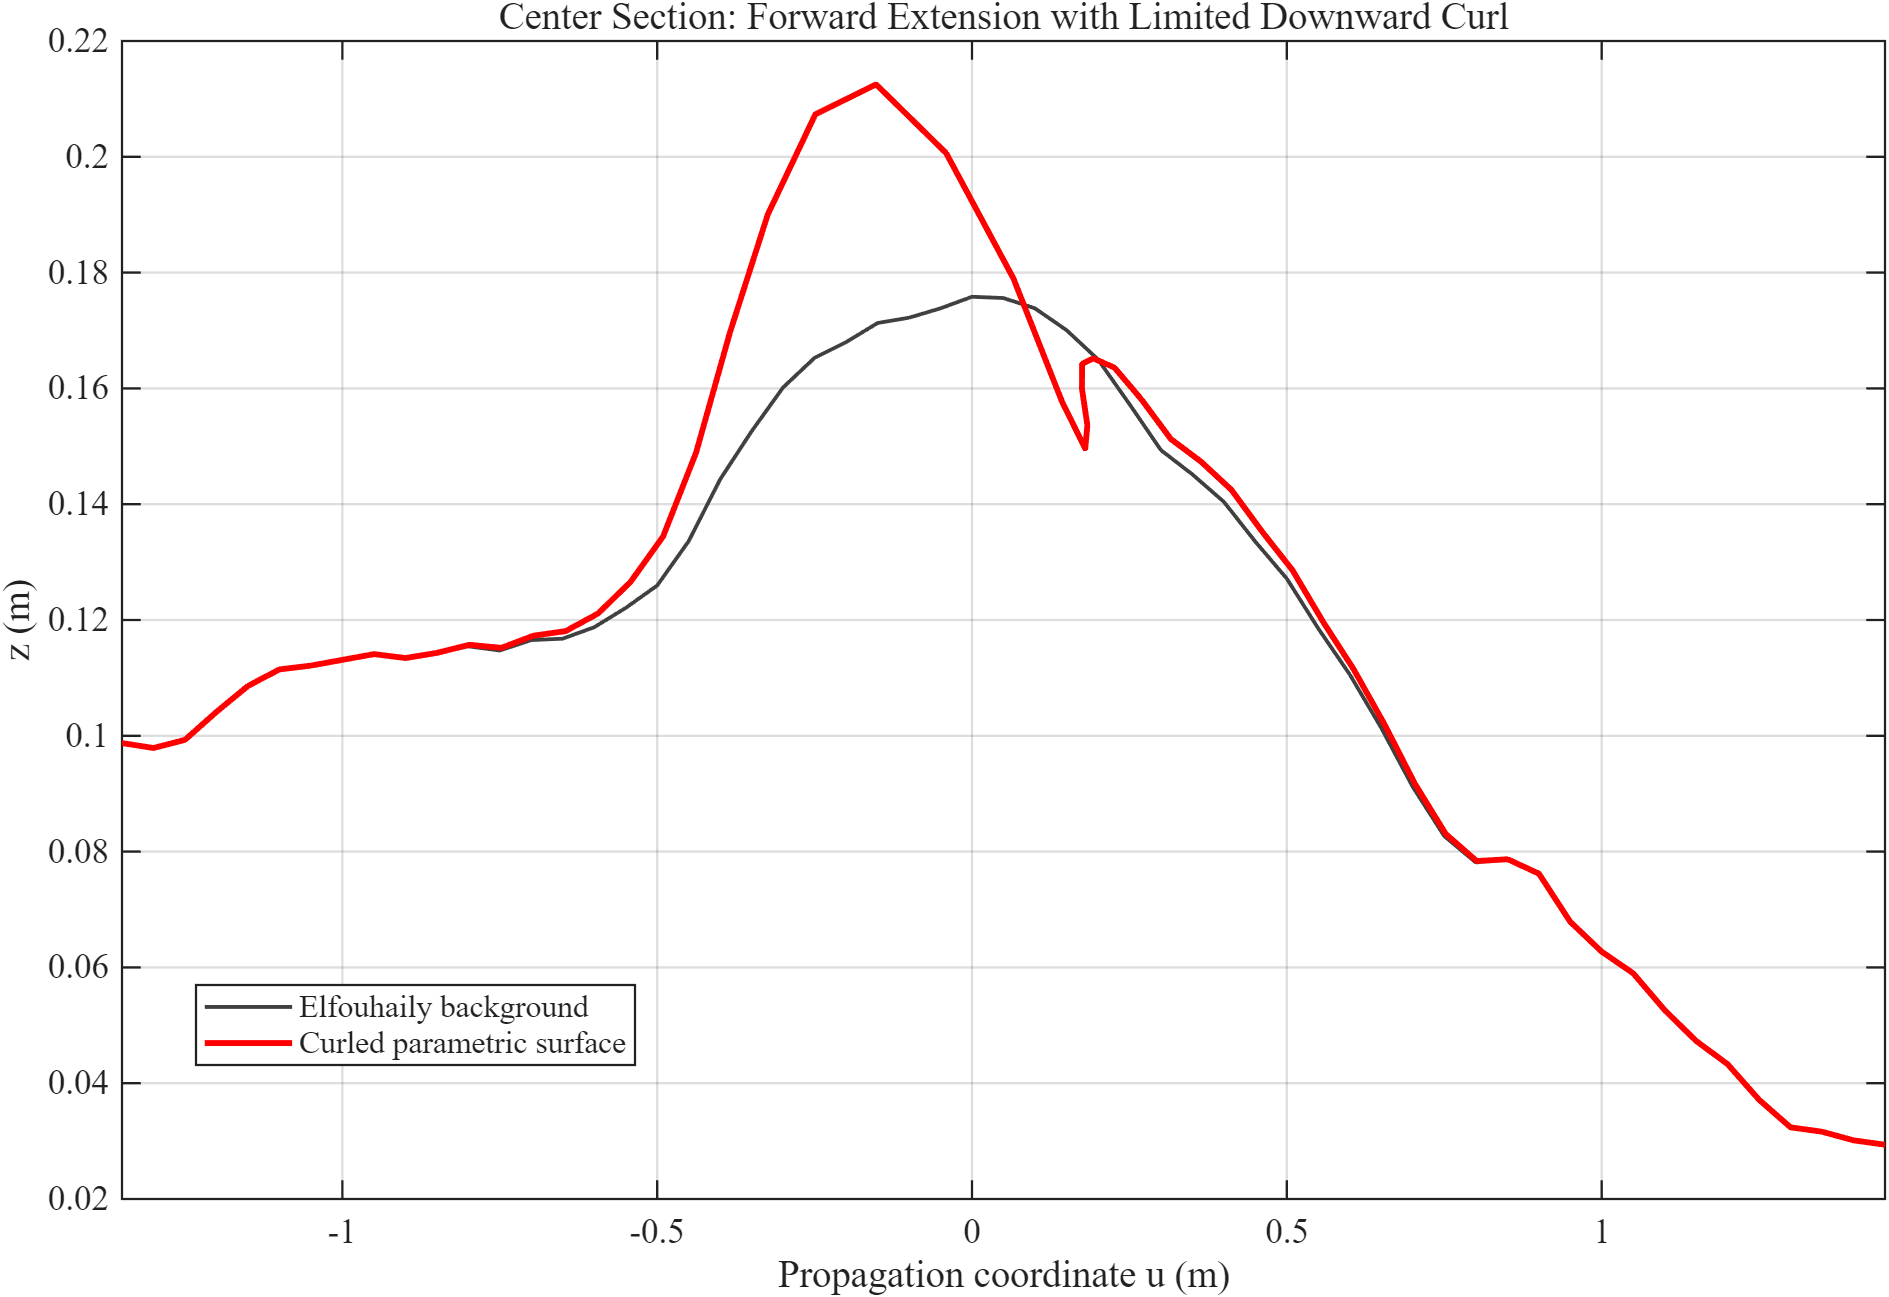
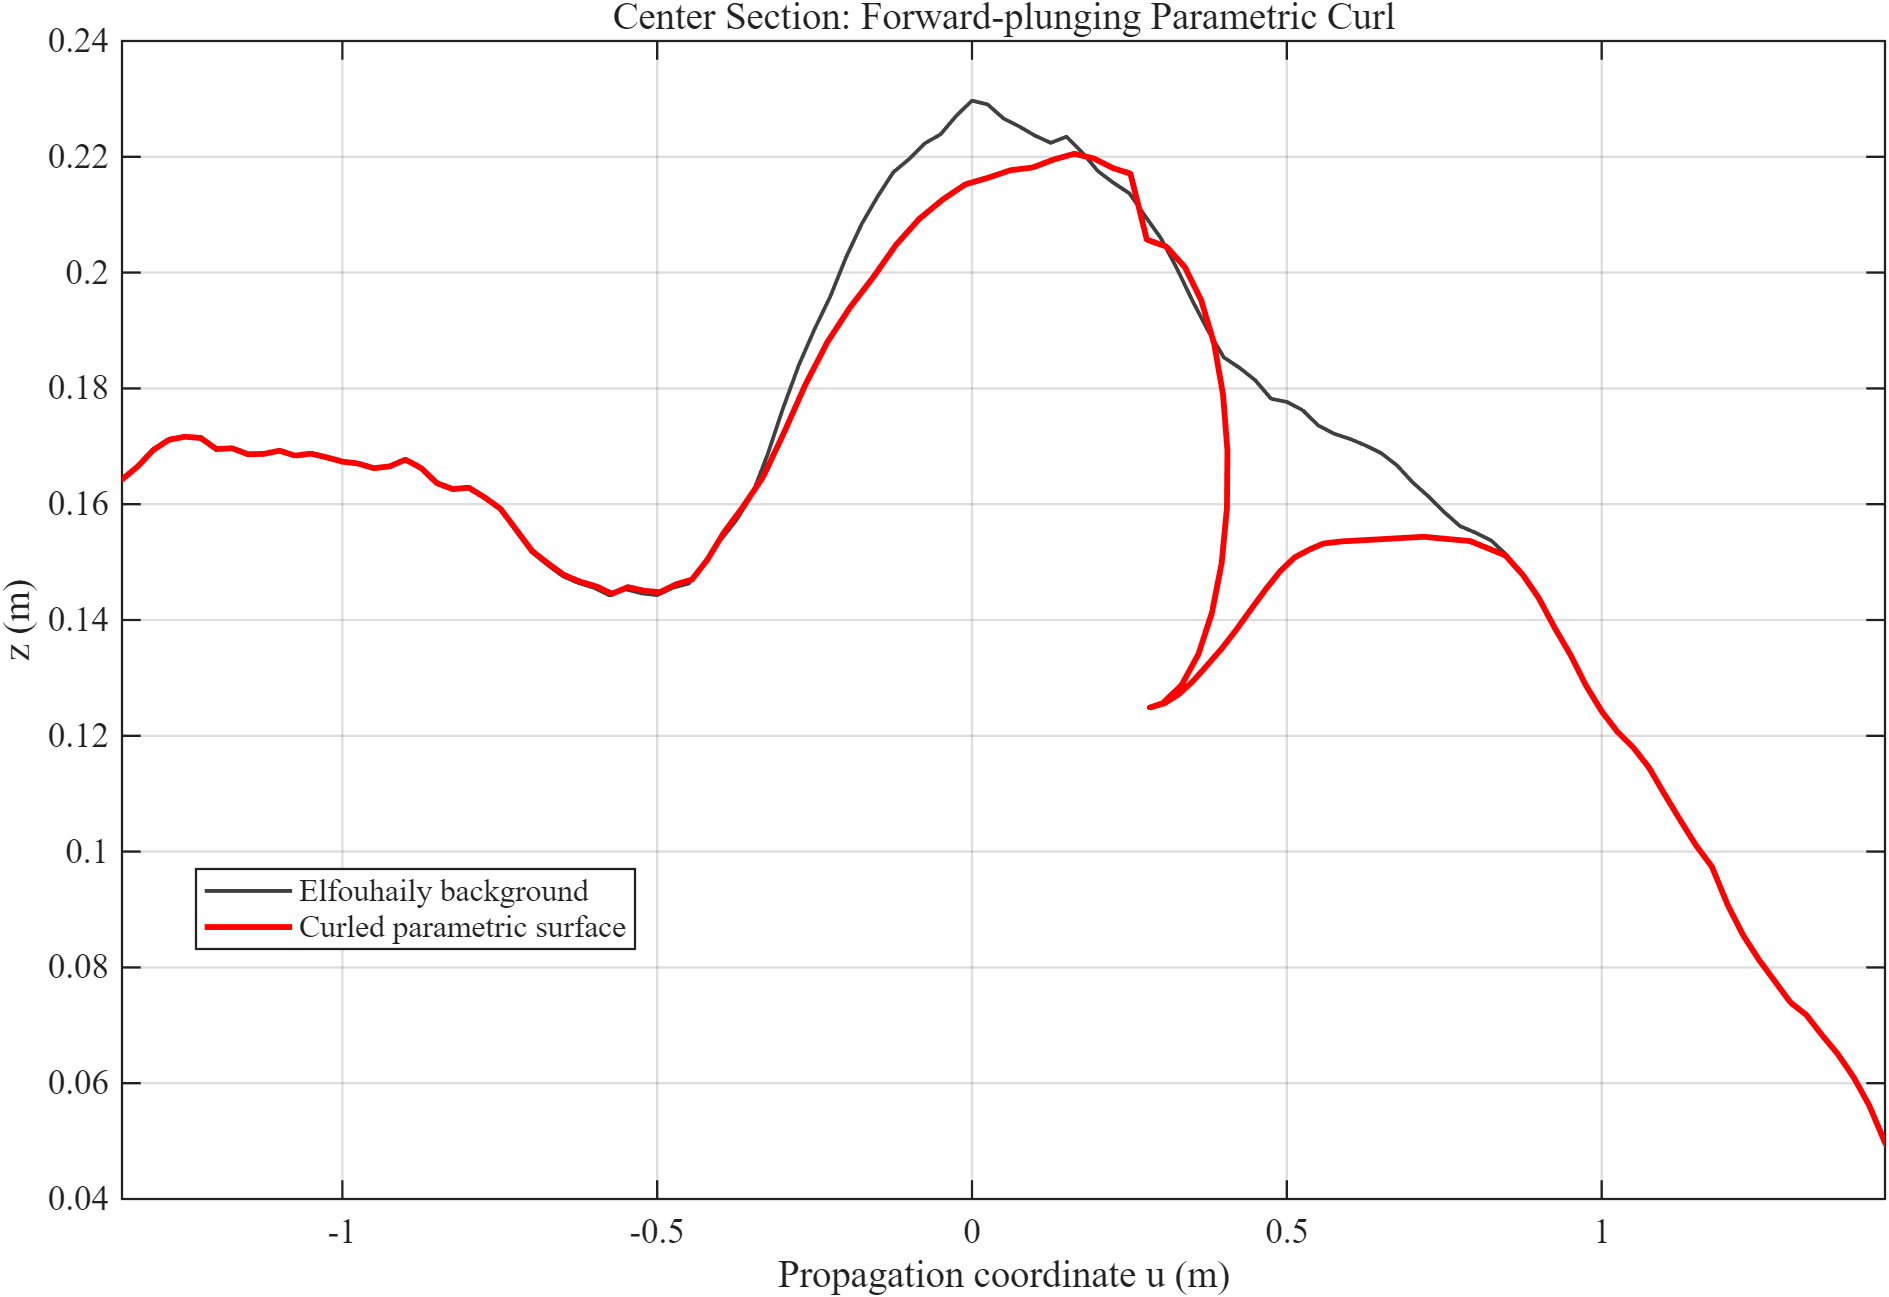
Model a forward-plunging local sea curl

diff --git a/Code/20260825_Elfouhaily_Ideal_Curl/Curl/generate_elfouhaily_ideal_curl_surface.m b/Code/20260825_Elfouhaily_Ideal_Curl/Curl/generate_elfouhaily_ideal_curl_surface.m
@@ -33,8 +33,6 @@ zCrest = interp1(ridge.v,ridge.z,vQuery,'pchip');
 ur = u-uCenter;
 
 localWaveHeight = estimate_local_wave_height(u,v,Z0,detection,cfg,dx,dy);
-pivotDepth = min(max(cfg.curl.pivotDepthFraction*localWaveHeight, ...
-    cfg.curl.minimumPivotDepth),cfg.curl.maximumPivotDepth);
 
 a = cfg.curl.crestHalfLength;
 b = cfg.curl.coreHalfWidth;
@@ -54,36 +52,20 @@ evolutionShape = exp(-0.5*(ur/sigmaEvolution).^2);
 crestLift = cfg.curl.crestLiftFraction*localWaveHeight;
 evolutionLift = cfg.curl.evolutionLiftFraction*localWaveHeight;
 forwardLean = cfg.curl.forwardLeanFraction*localWaveHeight;
-lipAdvance = cfg.curl.lipAdvanceFraction*localWaveHeight;
-lipShape = exp(-0.5*((ur-cfg.curl.shoulderOffset)/ ...
-    cfg.curl.lipAdvanceWidth).^2);
 
 zPre = Z0 + (crestLift*crestShape + ...
     evolutionLift*evolutionShape).*Wt;
-uPre = u + forwardLean*evolutionShape.*Wt + ...
-    lipAdvance*lipShape.*Wc;
+crestwiseWeight = compact_cosine(v/a);
+uPre = u + forwardLean*evolutionShape.*Wt;
 
-% Retain the Ideal_Curl_Wave_Echo same-angle rotation, but use a shallow,
-% locally scaled pivot and start the rotation on the approaching shoulder.
-uPivot = uCenter + cfg.curl.shoulderOffset + ...
-    cfg.curl.forwardPivotOffset + cfg.curl.pivotAdvanceFraction* ...
-    lipAdvance.*compact_cosine(v/a);
-zPivot = zCrest-pivotDepth;
-theta = cfg.curl.thetaMax*exp(-0.5*((ur- ...
-    cfg.curl.shoulderOffset)/cfg.curl.rotationWidth).^2).* ...
-    compact_cosine(v/a);
-
-dU = uPre-uPivot;
-dZ = zPre-zPivot;
-uRot = uPivot + dU.*cos(theta) + dZ.*sin(theta);
-zRot = zPivot - dU.*sin(theta) + dZ.*cos(theta);
-lipDrop = cfg.curl.lipDropFraction*localWaveHeight;
-dropCenter = cfg.curl.shoulderOffset+cfg.curl.lipDropOffset;
-dropShape = exp(-0.5*((ur-dropCenter)/cfg.curl.lipDropWidth).^2);
-zRot = zRot-lipDrop*dropShape.*compact_cosine(v/a);
-
-uFinal = uPre + Wt.*(uRot-uPre);
-Z = zPre + Wt.*(zRot-zPre);
+% A plunging breaker is multi-valued in z(u), so its core must be built as
+% a material-parametric curve. The upper branch advances, a half-ellipse
+% turns through the nose, and the lower branch continues forward at depth.
+[uTemplate,zTemplate,profileMask] = plunging_profile(ur,uCenter, ...
+    zCrest,zPre,localWaveHeight,cfg);
+profileWeight = profileMask.*crestwiseWeight;
+uFinal = uPre + profileWeight.*(uTemplate-uPre);
+Z = zPre + profileWeight.*(zTemplate-zPre);
 X = detection.x + cos(psi).*uFinal - sin(psi).*v;
 Y = detection.y + sin(psi).*uFinal + cos(psi).*v;
 
@@ -110,7 +92,7 @@ surfaceData.localURidge = uCenter;
 surfaceData.localURelative = ur;
 surfaceData.localUFinal = uFinal;
 surfaceData.zPre = zPre;
-surfaceData.thetaCurl = theta;
+surfaceData.thetaCurl = zeros(size(Z));
 surfaceData.coreWeight = Wc;
 surfaceData.transitionWeight = Wt;
 surfaceData.curlMask = coreMask;
@@ -124,13 +106,13 @@ surfaceData.vertices = [X(:),Y(:),Z(:)];
 surfaceData.detection = detection;
 surfaceData.ridge = ridge;
 surfaceData.localWaveHeight = localWaveHeight;
-surfaceData.pivotDepth = pivotDepth;
 surfaceData.cfg = cfg;
 
 horizontalDisplacement = hypot(X-X0,Y-Y0);
 forwardDisplacement = uFinal-u;
 downwardDisplacement = Z0-Z;
 surfaceData.metrics.maxElevationChange = max(abs(Z-Z0),[],'all');
+surfaceData.metrics.maxUpwardDisplacement = max(Z-Z0,[],'all');
 surfaceData.metrics.maxHorizontalDisplacement = ...
     max(horizontalDisplacement,[],'all');
 surfaceData.metrics.maxForwardDisplacement = ...
@@ -144,11 +126,64 @@ surfaceData.metrics.transitionPointCount = nnz(transitionMask);
 surfaceData.metrics.minimumPropagationJacobian = ...
     min(propagationJacobian(coreMask));
 surfaceData.metrics.overturningPointCount = nnz(overturningMask);
+surfaceData.metrics.forwardOverturningFraction = nnz( ...
+    overturningMask & ur > 0)/max(nnz(overturningMask),1);
+downwardCore = downwardDisplacement;
+downwardCore(~coreMask) = -Inf;
+[~,lowestIndex] = max(downwardCore,[],'all','linear');
+surfaceData.metrics.lowestLipRelativeU = ur(lowestIndex);
 outside = Wt == 0;
 surfaceData.metrics.maxOutsideDisplacement = max([ ...
     abs(X(outside)-X0(outside)); abs(Y(outside)-Y0(outside)); ...
     abs(Z(outside)-Z0(outside))]);
 surfaceData.metrics.crestwiseRidgeStd = std(ridge.u,0,'all');
+end
+
+function [uTarget,zTarget,mask] = plunging_profile(q,uC,zC,zBackground,H,cfg)
+qRear = cfg.curl.profileRear;
+qTop = cfg.curl.noseStart;
+qBottom = cfg.curl.noseEnd;
+qEnd = cfg.curl.lowerEnd;
+
+uTarget = uC+q;
+zTarget = zBackground;
+mask = zeros(size(q));
+
+upper = q >= qRear & q < qTop;
+tUpper = smoothstep((q(upper)-qRear)/(qTop-qRear));
+advance = cfg.curl.upperAdvanceFraction*H;
+zLipTop = zC-cfg.curl.lipTopDropFraction*H;
+uTarget(upper) = uC(upper)+q(upper)+advance.*tUpper;
+zTarget(upper) = zTarget(upper)+(zLipTop(upper)-zTarget(upper)).* ...
+    cfg.curl.plateauFraction.*tUpper;
+mask(upper) = smoothstep((q(upper)-qRear)/(0.18*(qTop-qRear)));
+
+uNoseBase = uC+qTop+advance;
+zTop = zLipTop;
+zBottom = zC-cfg.curl.lowerBranchDropFraction*H;
+nose = q >= qTop & q <= qBottom;
+tNose = (q(nose)-qTop)/(qBottom-qTop);
+uTarget(nose) = uNoseBase(nose)+ ...
+    cfg.curl.noseRadiusFraction*H.*sin(pi*tNose);
+zTarget(nose) = zBottom(nose)+0.5.*(zTop(nose)-zBottom(nose)).* ...
+    (1+cos(pi*tNose));
+mask(nose) = 1;
+
+lower = q > qBottom & q <= qEnd;
+tLower = (q(lower)-qBottom)/(qEnd-qBottom);
+uTarget(lower) = uNoseBase(lower)+ ...
+    cfg.curl.lowerAdvanceFactor*(q(lower)-qBottom);
+zBackgroundJoin = zBackground(lower);
+blendUp = smoothstep(tLower);
+zTarget(lower) = (1-blendUp).*zBottom(lower)+ ...
+    blendUp.*zBackgroundJoin;
+mask(lower) = 1-smoothstep(max((tLower-0.72)/0.28,0));
+
+end
+
+function y = smoothstep(x)
+x = min(max(x,0),1);
+y = x.^2.*(3-2*x);
 end
 
 function detection = detect_breaking_eligible_crest(X,Y,Z,cfg,dx,dy)

diff --git a/Code/20260825_Elfouhaily_Ideal_Curl/Curl/run_elfouhaily_ideal_curl_demo.m b/Code/20260825_Elfouhaily_Ideal_Curl/Curl/run_elfouhaily_ideal_curl_demo.m
@@ -7,8 +7,15 @@ assert(surfaceData.metrics.overturningPointCount > 0, ...
     'The local patch is deformed but does not geometrically overturn.');
 assert(surfaceData.metrics.maxOutsideDisplacement < 1e-12, ...
     'The deformation leaks outside the compact transition support.');
-assert(surfaceData.metrics.downwardToLocalHeight < 0.55, ...
+assert(surfaceData.metrics.downwardToLocalHeight < 0.90, ...
     'The downward displacement is too large for the local wave height.');
+assert(surfaceData.metrics.maxUpwardDisplacement < ...
+    0.10*surfaceData.localWaveHeight, ...
+    'The curl incorrectly raises the crest instead of extending forward.');
+assert(surfaceData.metrics.forwardOverturningFraction > 0.80, ...
+    'The overturned material is not concentrated on the forward side.');
+assert(surfaceData.metrics.lowestLipRelativeU > 0, ...
+    'The lowest part of the lip is not in front of the detected crest.');
 assert(surfaceData.metrics.crestwiseRidgeStd > 0, ...
     'The detected crest ridge has collapsed to a straight extrusion.');
 
@@ -30,13 +37,17 @@ fprintf('  selected crest            : (%.3f, %.3f, %.3f) m\n', ...
     surfaceData.detection.z);
 fprintf('  estimated local wave H    : %.4f m\n', ...
     surfaceData.localWaveHeight);
-fprintf('  adaptive pivot depth      : %.4f m\n', ...
-    surfaceData.pivotDepth);
 fprintf('  maximum forward movement  : %.4f m\n', ...
     surfaceData.metrics.maxForwardDisplacement);
 fprintf('  maximum downward movement : %.4f m (%.3f Hlocal)\n', ...
     surfaceData.metrics.maxDownwardDisplacement, ...
     surfaceData.metrics.downwardToLocalHeight);
+fprintf('  maximum upward movement   : %.4f m\n', ...
+    surfaceData.metrics.maxUpwardDisplacement);
+fprintf('  forward overturn fraction : %.3f\n', ...
+    surfaceData.metrics.forwardOverturningFraction);
+fprintf('  lowest lip relative u     : %.4f m\n', ...
+    surfaceData.metrics.lowestLipRelativeU);
 fprintf('  minimum du_final/du       : %.4f\n', ...
     surfaceData.metrics.minimumPropagationJacobian);
 fprintf('  overturning points        : %d\n', ...
@@ -111,28 +122,35 @@ xlim([-1.35 1.45]); grid on;
 xlabel('Propagation coordinate u (m)'); ylabel('z (m)');
 legend('Elfouhaily background','Curled parametric surface', ...
     'Location','best');
-title('Center Section: Forward Extension with Limited Downward Curl');
+title('Center Section: Forward-plunging Parametric Curl');
 
-% Figure 5: local 3-D geometry with core and overturned vertices marked.
+% Figure 5: crop to the curl core and color by material coordinate. This
+% side-oblique view exposes the upper lip, rounded nose, and lower branch.
 figCloseup = new_figure(cfg.output.figureVisible,[160 160 1100 760]);
 surf(surfaceData.X,surfaceData.Y,surfaceData.Z, ...
-    surfaceData.Z,'EdgeColor',[0.22 0.22 0.22], ...
-    'EdgeAlpha',0.16); hold on;
-plot3(surfaceData.X(surfaceData.overturningMask), ...
-    surfaceData.Y(surfaceData.overturningMask), ...
-    surfaceData.Z(surfaceData.overturningMask),'.', ...
-    'Color',[0.02 0.02 0.02],'MarkerSize',12);
-patchMask = surfaceData.transitionWeight > 0.02;
-patchX = surfaceData.X(patchMask);
-patchY = surfaceData.Y(patchMask);
-patchZ = surfaceData.Z(patchMask);
-xlim([min(patchX)-0.30,max(patchX)+0.30]);
-ylim([min(patchY)-0.30,max(patchY)+0.30]);
-zlim([min(patchZ)-0.05,max(patchZ)+0.05]);
-axis vis3d; view(-20,18); grid on;
+    surfaceData.localURelative,'EdgeColor',[0.18 0.18 0.18], ...
+    'EdgeAlpha',0.12);
+psi = deg2rad(cfg.detection.propagationDirectionDeg);
+uAxis = [-1.10 1.20];
+vAxis = [-0.85 0.85];
+cornersU = [uAxis(1) uAxis(2) uAxis(2) uAxis(1)];
+cornersV = [vAxis(1) vAxis(1) vAxis(2) vAxis(2)];
+cornersX = surfaceData.detection.x+cos(psi).*cornersU- ...
+    sin(psi).*cornersV;
+cornersY = surfaceData.detection.y+sin(psi).*cornersU+ ...
+    cos(psi).*cornersV;
+xlim([min(cornersX) max(cornersX)]);
+ylim([min(cornersY) max(cornersY)]);
+localCrop = abs(surfaceData.localU) <= 1.2 & ...
+    abs(surfaceData.localV) <= 0.85;
+zlim([min(surfaceData.Z(localCrop))-0.02 ...
+    max(surfaceData.Z(localCrop))+0.02]);
+axis vis3d; pbaspect([1.8 1.2 1]); view(-10,12); grid on;
 xlabel('x (m)'); ylabel('y (m)'); zlabel('z (m)');
-title('Local Parametric Curl; Black Points Mark J_u < 0');
-colormap(figCloseup,turbo); colorbar;
+title('Side View of the Local Forward-plunging Curl');
+colormap(figCloseup,parula); cb = colorbar;
+cb.Label.String = 'material coordinate u-u_c (m)';
+clim([-0.8 0.9]);
 
 exportgraphics(figConditions,fullfile(cfg.output.outputDirectory, ...
     '01_breaking_location_conditions.png'),'Resolution',200);
@@ -145,8 +163,10 @@ exportgraphics(figSection,fullfile(cfg.output.outputDirectory, ...
 exportgraphics(figCloseup,fullfile(cfg.output.outputDirectory, ...
     '05_local_curl_closeup.png'),'Resolution',220);
 
-save(fullfile(cfg.output.outputDirectory,'elfouhaily_local_curl.mat'), ...
-    'surfaceData','-v7.3');
+if cfg.output.saveMatFile
+    save(fullfile(cfg.output.outputDirectory,'elfouhaily_local_curl.mat'), ...
+        'surfaceData','-v7.3');
+end
 
 function condition_panel(X,Y,mask,surfaceData,panelTitle)
 nexttile;

diff --git a/Code/20260825_Elfouhaily_Ideal_Curl/Curl/default_elfouhaily_ideal_curl_config.m b/Code/20260825_Elfouhaily_Ideal_Curl/Curl/default_elfouhaily_ideal_curl_config.m
@@ -5,7 +5,7 @@ cfg.randomSeed = 20260825;
 
 cfg.domain.Lx = 32.0;
 cfg.domain.Ly = 32.0;
-cfg.domain.dx = 0.05;
+cfg.domain.dx = 0.025;
 cfg.domain.dy = 0.05;
 
 cfg.sea.U10 = 5.0;
@@ -34,33 +34,30 @@ cfg.curl.ridgeSearchHalfWidth = 0.55;
 cfg.curl.ridgeSmoothSamples = 9;
 cfg.curl.coreHalfWidth = 0.42;
 cfg.curl.transitionWidth = 0.58;
-cfg.curl.shoulderOffset = -0.14;
-cfg.curl.forwardPivotOffset = 0.03;
-cfg.curl.pivotAdvanceFraction = 0.85;
-cfg.curl.rotationWidth = 0.16;
-cfg.curl.thetaMax = 0.25;
+cfg.curl.profileRear = -0.46;
+cfg.curl.noseStart = 0.10;
+cfg.curl.noseEnd = 0.42;
+cfg.curl.lowerEnd = 0.86;
+cfg.curl.upperAdvanceFraction = 1.45;
+cfg.curl.noseRadiusFraction = 1.05;
+cfg.curl.lowerAdvanceFactor = 0.92;
+cfg.curl.lipTopDropFraction = 0.16;
 
-% The pivot depth is scaled by the selected local wave height and clipped.
-cfg.curl.pivotDepthFraction = 0.65;
-cfg.curl.minimumPivotDepth = 0.07;
-cfg.curl.maximumPivotDepth = 0.10;
 cfg.curl.localHeightRadius = 1.25;
 
 % Low-amplitude pre-shaping changes the neighboring noncurling surface too.
-cfg.curl.crestLiftFraction = 0.08;
-cfg.curl.evolutionLiftFraction = 0.025;
-cfg.curl.forwardLeanFraction = 0.16;
-cfg.curl.lipAdvanceFraction = 2.00;
-cfg.curl.lipAdvanceWidth = 0.14;
-cfg.curl.lipDropFraction = 0.18;
-cfg.curl.lipDropOffset = 0.12;
-cfg.curl.lipDropWidth = 0.14;
+cfg.curl.crestLiftFraction = 0.015;
+cfg.curl.evolutionLiftFraction = 0.005;
+cfg.curl.forwardLeanFraction = 0.08;
+cfg.curl.plateauFraction = 0.48;
+cfg.curl.lowerBranchDropFraction = 0.82;
 cfg.curl.rearSigmaFraction = 0.72;
 cfg.curl.frontSigmaFraction = 0.42;
 cfg.curl.evolutionSigmaFraction = 1.20;
 cfg.curl.coreMaskThreshold = 0.08;
 
 cfg.output.figureVisible = 'on';
+cfg.output.saveMatFile = false;
 cfg.output.outputDirectory = fullfile(fileparts(mfilename('fullpath')), ...
     'output');
 end

diff --git a/Code/20260825_Elfouhaily_Ideal_Curl/Curl/README.md b/Code/20260825_Elfouhaily_Ideal_Curl/Curl/README.md
@@ -22,13 +22,13 @@ Q = 0.50 Q_height + 0.35 Q_curvature + 0.15 Q_forward_slope.
 
 ## 局部卷曲
 
-卷曲前先通过宽过渡窗改变周围非卷曲表面，使前坡、后坡和迎浪肩部连续演化。卷唇由三部分组成：
+卷曲前先通过宽过渡窗轻微改变周围非卷曲表面，使后肩、波峰和前坡连续演化。卷曲核心不再只修改高度，而是以原网格传播向材料坐标 `q=u-u_c(v)` 构造多值参数剖面。它包含：
 
-1. 局部水平前移，使参数曲面在传播方向发生平滑折返；
-2. `Ideal_Curl_Wave_Echo.m` 风格的传播向-垂向同角旋转；
-3. 与局部波高成比例的小幅卷唇下落。
+1. 后肩到上唇的平滑前移，且唇顶略低于原始最高点；
+2. 半椭圆参数鼻端，使表面先向前、再向下并向后折返；
+3. 低位下支继续向前延伸，随后平滑回接原 Elfouhaily 前坡。
 
-支点深度、水平前移和卷唇下落均由检测到的局部波高 `Hlocal` 缩放。默认实现删除了旧代码的 `verticalAngleRatio` 和 `pivotDepth=0.915 m`，并使用核心窗 `Wc` 与更宽的过渡窗 `Wt`。卷曲后的结果保存为 `(X,Y,Z)` 参数曲面，三角面连接沿用原结构网格。
+鼻端水平半径、前伸量和下落量均由检测到的局部波高 `Hlocal` 缩放。它保留 `Ideal_Curl_Wave_Echo.m` 的“材料点越过波峰后在传播向-垂向平面形成回转支路”思想，但删除固定大支点深度和单角旋转。沿波峰方向使用紧支撑余弦窗，因此卷曲不会横向复制成柱状面。卷曲结果保存为 `(X,Y,Z)` 参数曲面，三角面连接沿用原结构网格。
 
 几何翻卷由传播方向映射雅可比判断：
 
@@ -40,13 +40,13 @@ J_u = d(u_final)/du < 0.
 
 固定随机种子 `20260825` 的结果为：
 
-- 选中波峰：`(20.900, 25.300, 0.176) m`；
+- 选中波峰：`(9.100, 26.800, 0.230) m`；
 - 估计局部波高：`0.1225 m`；
-- 自适应支点深度：`0.0796 m`；
-- 最大前向位移：`0.2432 m`；
-- 最大向下位移：`0.0242 m`，即 `0.198 Hlocal`；
-- 最小传播雅可比：`-0.0844`；
-- `J_u<0` 的翻卷网格点：`28` 个；
+- 最大前向位移：`0.1890 m`，即 `1.543 Hlocal`；
+- 最大向下位移：`0.0741 m`，即 `0.605 Hlocal`；
+- 最大向上位移：`0.0047 m`，即 `0.038 Hlocal`；
+- 最小传播雅可比：`-0.7447`；
+- `J_u<0` 的翻卷网格点：`93` 个，且全部位于波峰前侧；
 - 紧支撑区域外位移：数值零。
 
 ## 文件
@@ -61,8 +61,8 @@ J_u = d(u_final)/du < 0.
 - `02_elfouhaily_selected_crest.png`：原始海面和选中波峰；
 - `03_elfouhaily_local_curled_surface.png`：完整卷曲海面；
 - `04_local_curl_center_section.png`：卷曲前后中心参数剖面；
-- `05_local_curl_closeup.png`：局部三维卷浪与 `J_u<0` 网格点；
-- `elfouhaily_local_curl.mat`：完整结构体数据。
+- `05_local_curl_closeup.png`：按材料坐标着色的局部前卷三维侧视图；
+- `elfouhaily_local_curl.mat`：可选完整结构体数据，设置 `cfg.output.saveMatFile=true` 时生成。
 
 ## 运行
 
